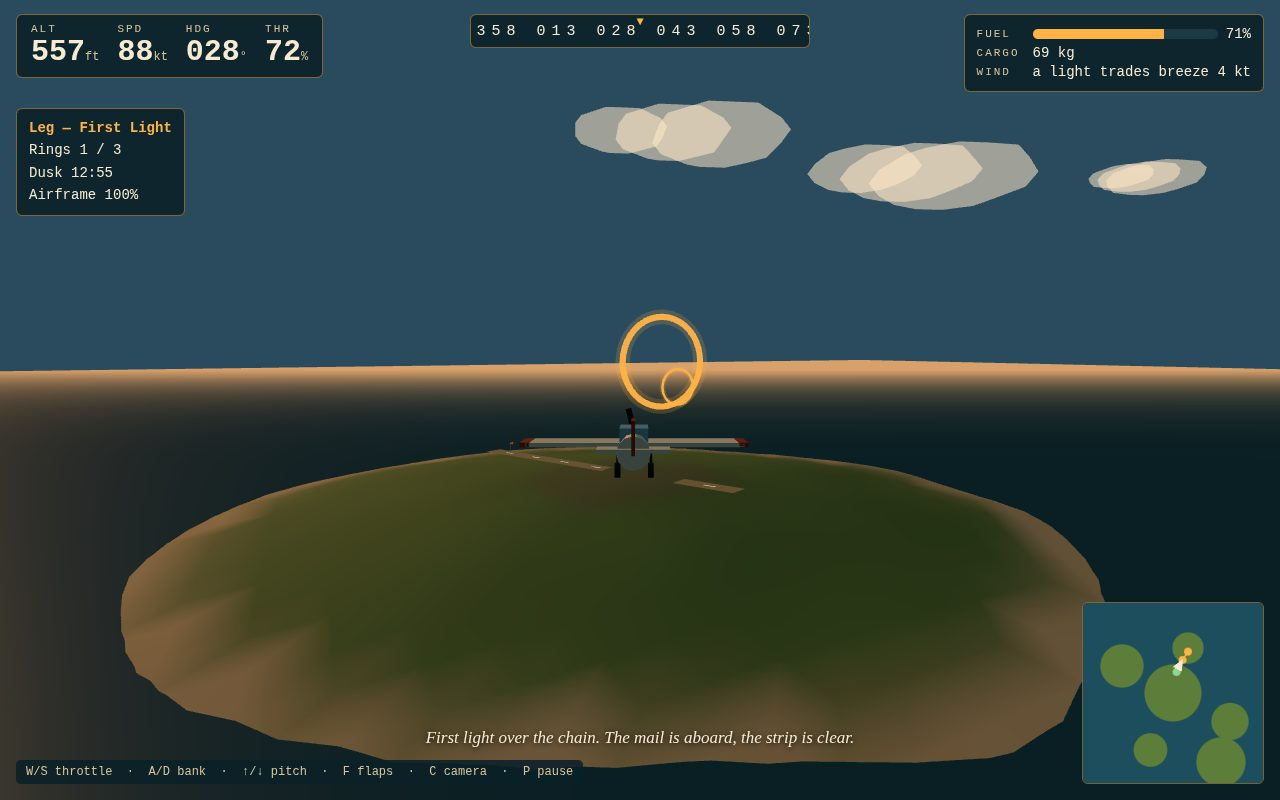
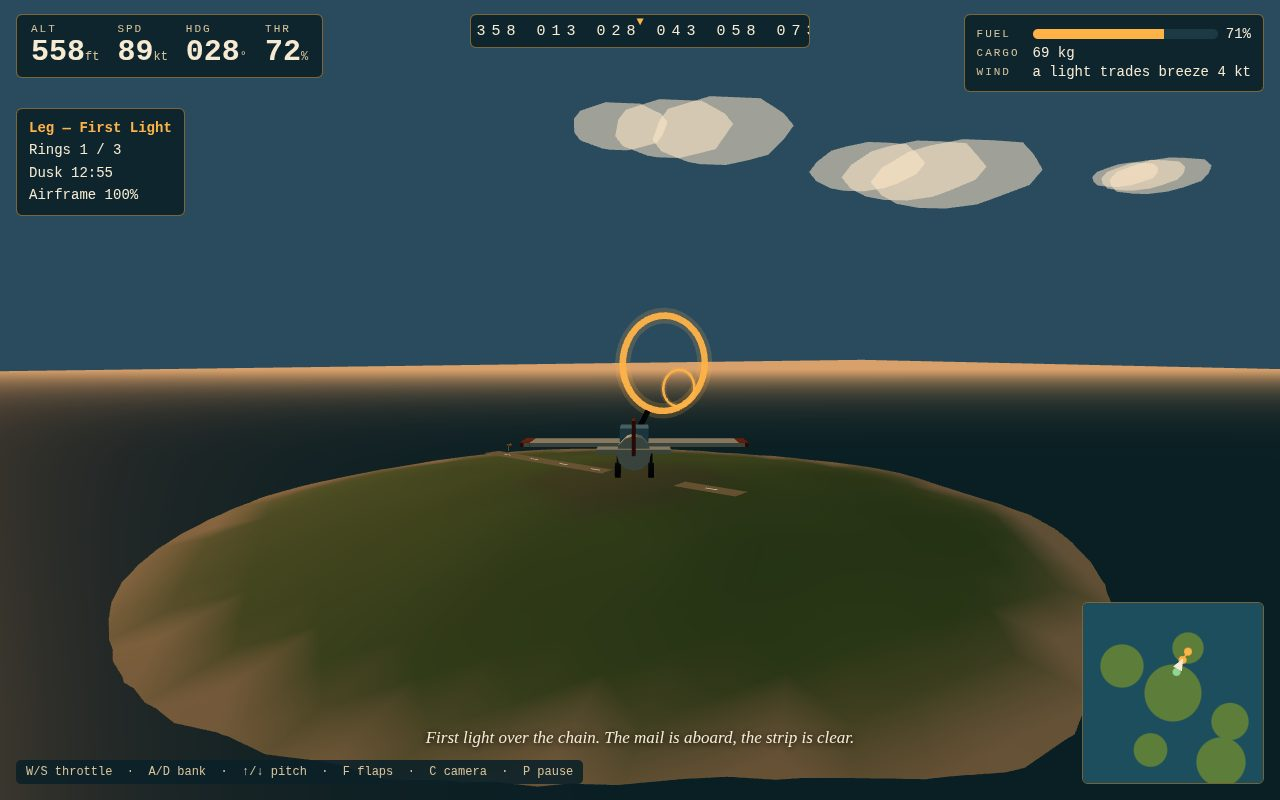
Fix autopilot: turn sign was inverted (flew 75km off-course); gate flare to final 400m (was orbiting at 12m, never landing)

diff --git a/game/src/autopilot.js b/game/src/autopilot.js
@@ -32,14 +32,20 @@ export function autopilotInput(ap, flight, target, dt, wind) {
   let dh = desired - flight.heading;
   while (dh > Math.PI) dh -= Math.PI * 2;
   while (dh < -Math.PI) dh += Math.PI * 2;
-  const aileron = Math.max(-1, Math.min(1, dh * 1.4 - flight.roll * 1.2));
+  // Sign check (verified in node: the inverted sign flew the plane 75 km
+  // southwest of ring 1): aileron > 0 banks right, banking right DECREASES
+  // flight.heading, so a negative dh (desired below heading) needs a
+  // POSITIVE aileron. The roll term damps the bank back toward level.
+  const aileron = Math.max(-1, Math.min(1, -dh * 1.4 - flight.roll * 1.2));
 
   // Altitude: hold the band, climb early, descend late.
   const altErr = ap.targetAlt - flight.y;
   let elevator = Math.max(-0.8, Math.min(0.8, altErr * 0.012 - flight.pitch * 1.6));
-  if (ap.phase === 'land') {
-    // Flare: level off low, bleed speed, settle.
-    elevator = Math.max(-0.4, Math.min(0.6, (12 - flight.y) * 0.02 - flight.pitch * 2));
+  if (ap.phase === 'land' && dist < 400) {
+    // Flare, only on final: level off just above the strip, bleed speed,
+    // settle. (Before the fix the flare held the plane at 12 m for the
+    // whole approach and it orbited the strip forever, never touching down.)
+    elevator = Math.max(-0.4, Math.min(0.6, (2 - flight.y) * 0.05 - flight.pitch * 2));
   }
 
   // Throttle: cruise power, ease off when fast or close, idle on final.
